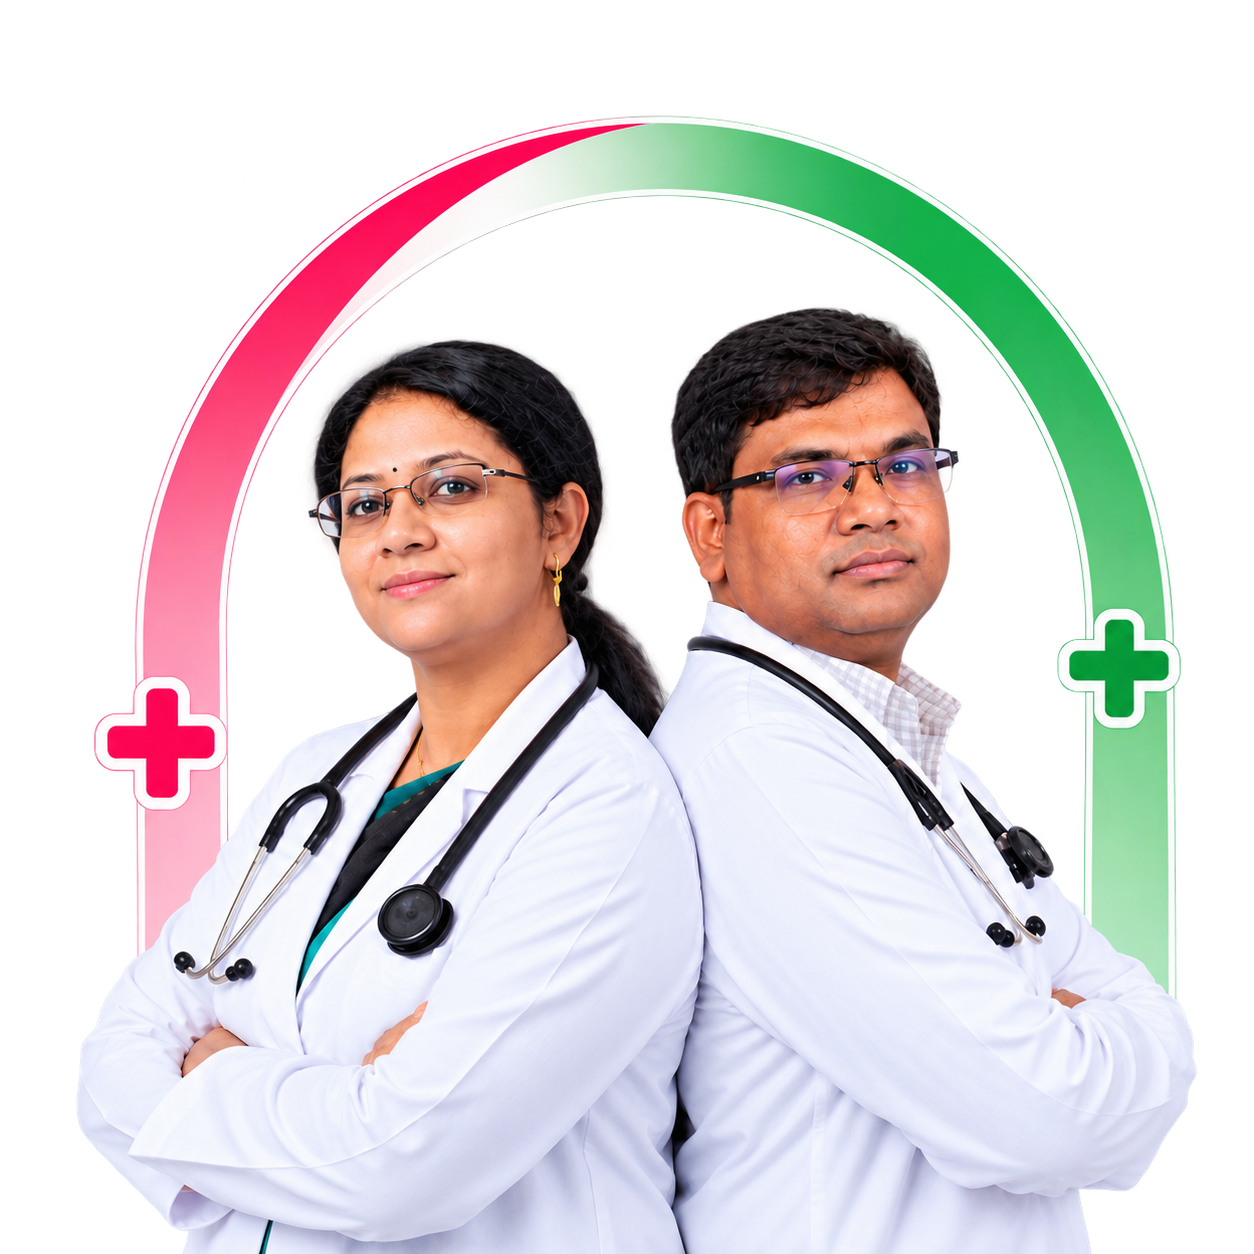
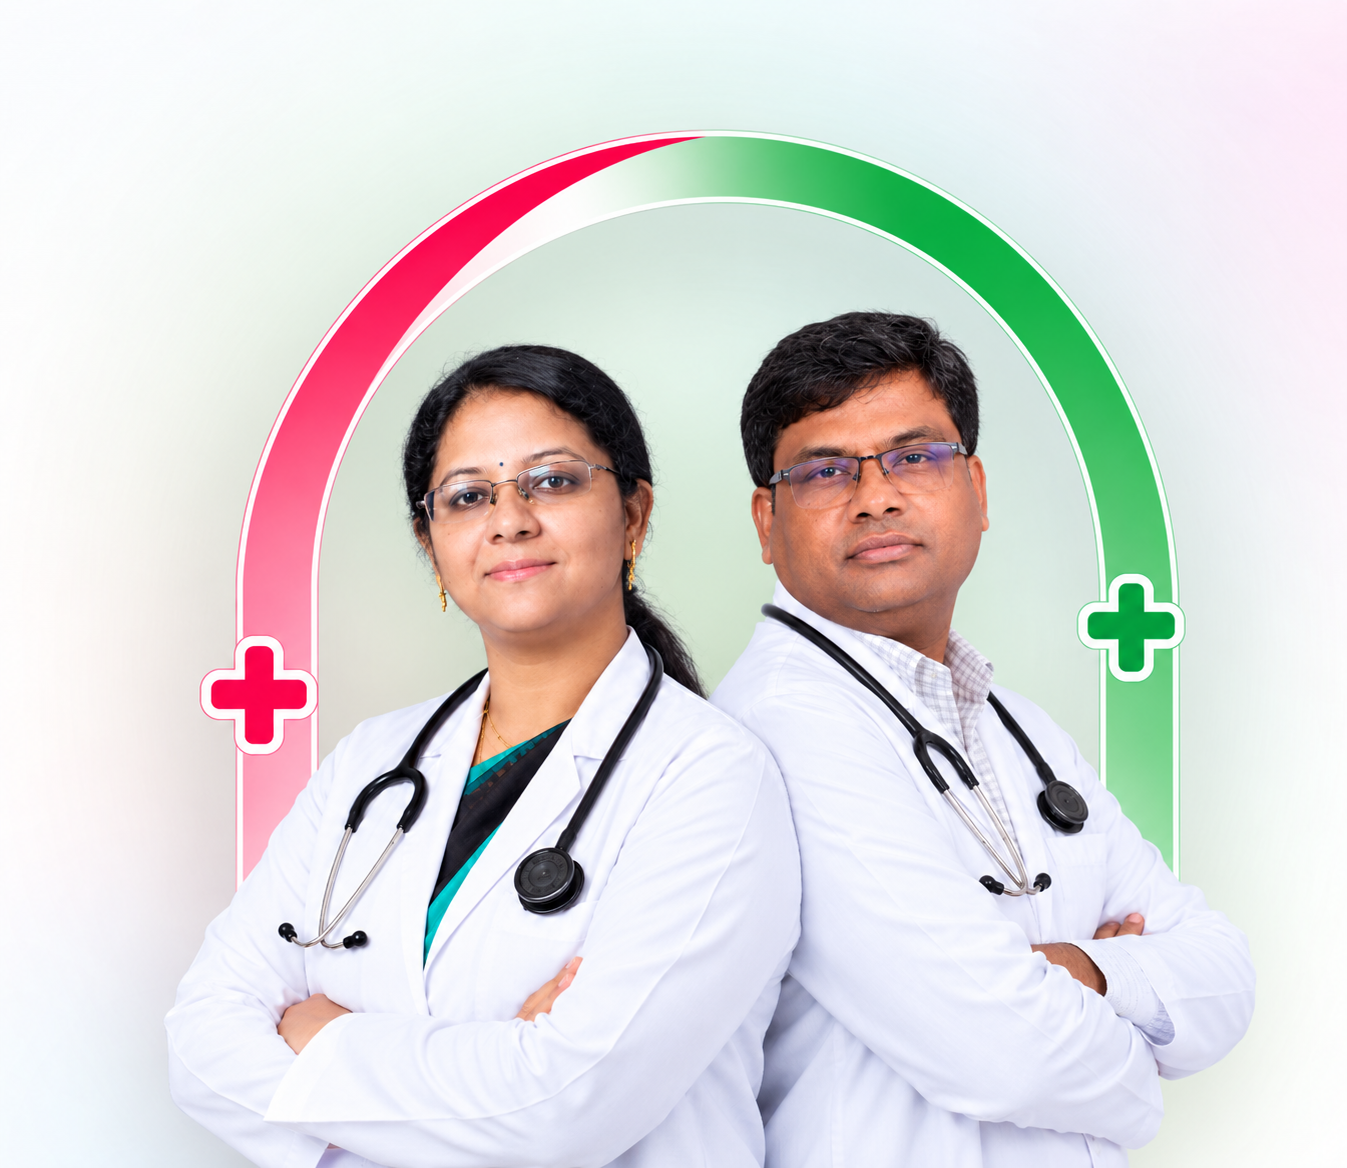
feat: update hero artwork to Back-to-Back Doctors in a Healthcare Arch

diff --git a/src/components/Hero.tsx b/src/components/Hero.tsx
@@ -105,7 +105,7 @@ export const Hero: React.FC<HeroProps> = ({ onOpenAppointmentModal }) => {
             <div className="relative w-full max-w-lg mx-auto flex flex-col items-center">
               
               <img 
-                src="/images/Back-to-Back Doctors with Rainbow Medical Arch.png" 
+                src="/images/Back-to-Back Doctors in a Healthcare Arch.png" 
                 alt="Dr. Keerthi S. and Dr. J. Naveen Kumar - Naveen Multi-Speciality Hospital Hindupur" 
                 className="w-full h-auto max-h-[520px] object-contain drop-shadow-2xl transition-transform duration-300 hover:scale-[1.01]"
                 loading="eager"
